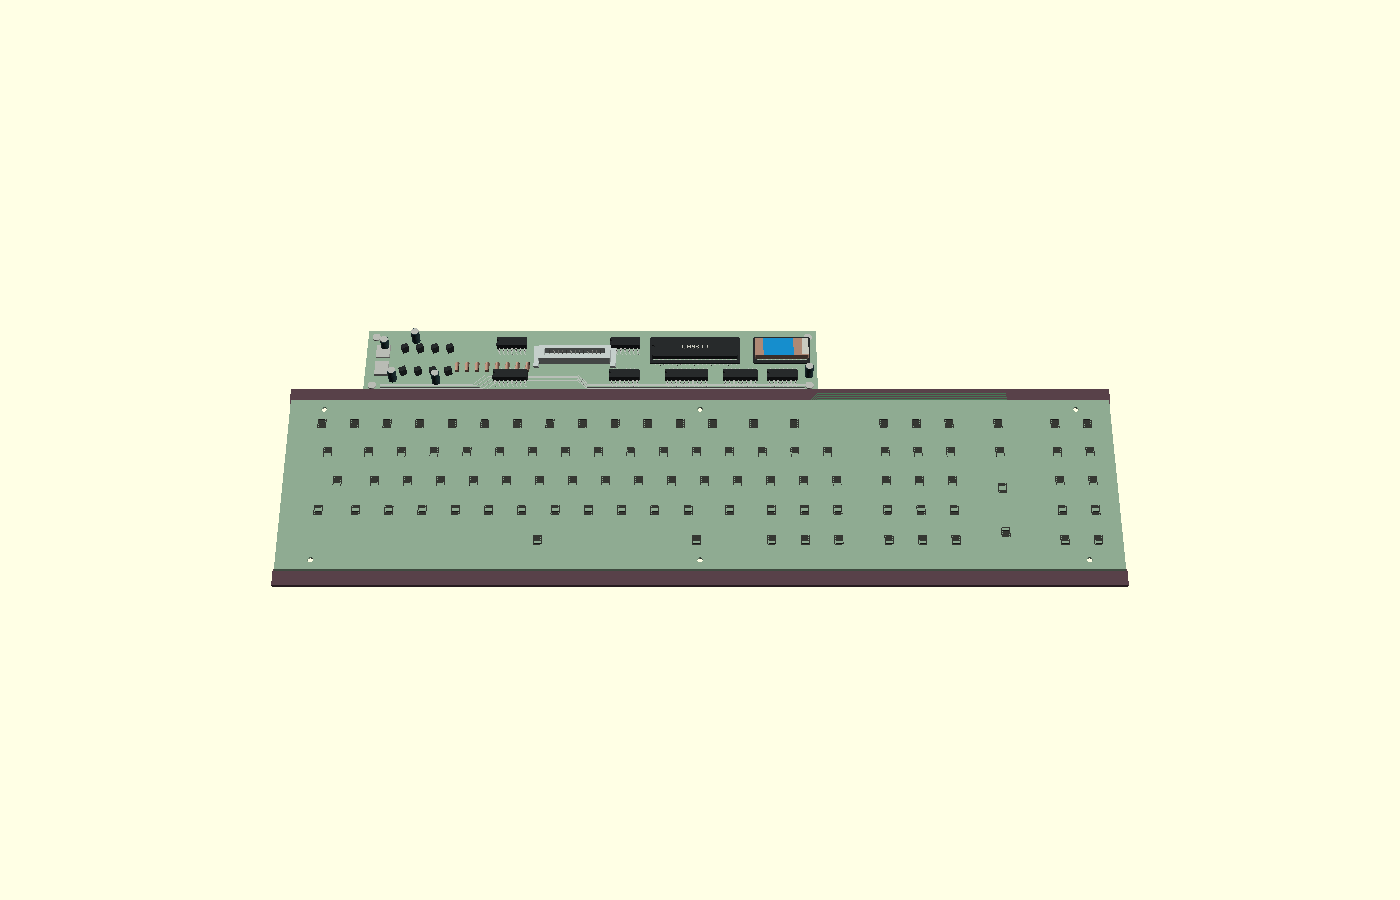
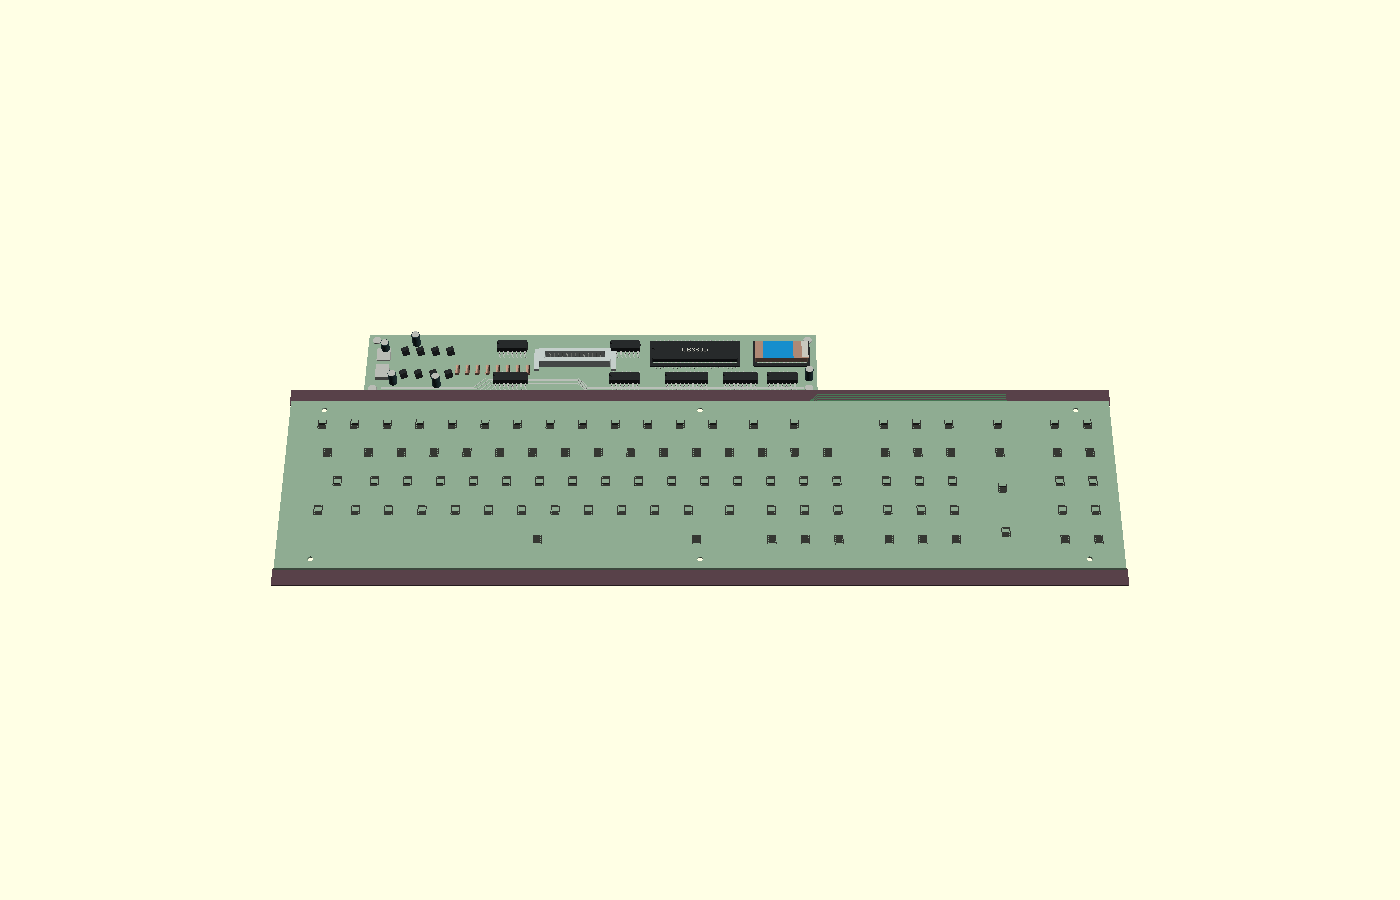
Match measured keyboard base profile and close pencil trough

Changed region(s): [[0.2457, 0.3422, 0.5836, 0.4356], [0.215, 0.6222, 0.7986, 0.6533], [0.5836, 0.4356, 0.7371, 0.4667]]

diff --git a/models/robotron-1715m/keyboard/README.md b/models/robotron-1715m/keyboard/README.md
@@ -102,3 +102,12 @@ The 1 mm separation now continues along the full panel; `--view side` checks it.
 The same side photo shows a small round top-to-wall bend in the light base.
 A 1 mm rounded offset of the inner wedge models this separately from the
 5 mm corners in plan; the lower rim remains flat and open for the separate lid.
+
+Owner profile correction: the light base rises from **15 mm at the front** to
+**29 mm at the black panel’s rear edge**, then stays level at **29 mm** to the
+back. `dimensions.scad` derives the panel tilt from those heights and the current
+photo-fitted panel footprint. Keys and internal switch parts share the updated
+height datum and tilt. The rear shelf and its pencil trough are horizontal.
+
+The pencil groove is a closed pressed trough, not a through-hole. Its floor and
+walls are 1 mm thick; the 2 mm recess depth remains a photo estimate.
